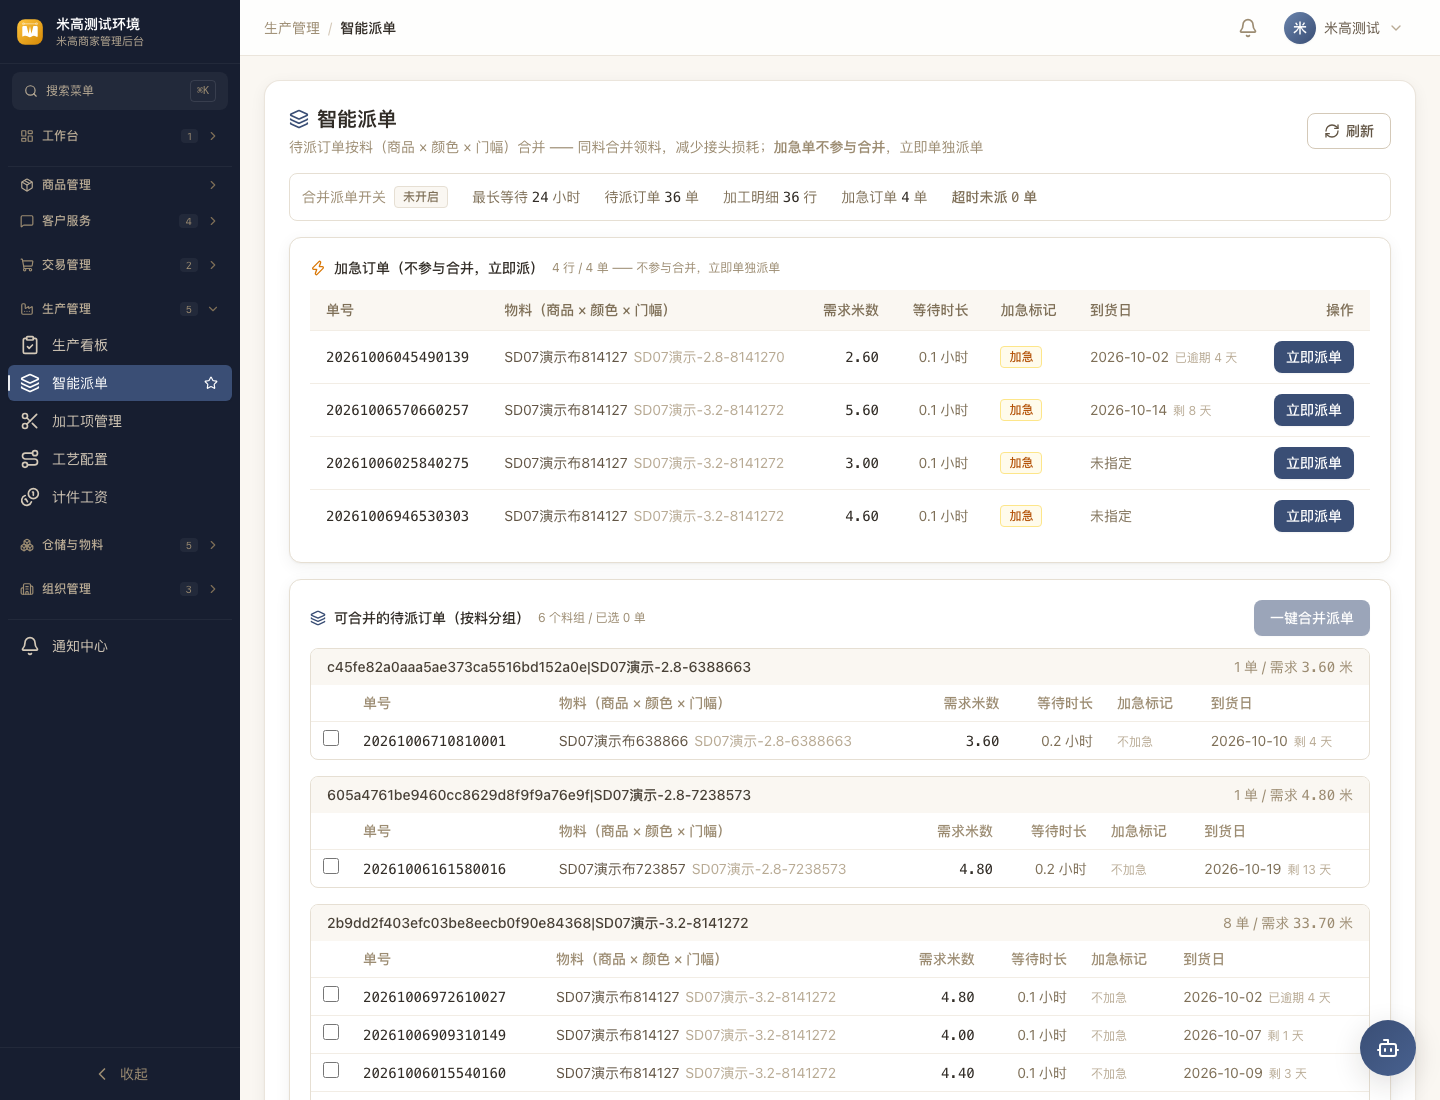
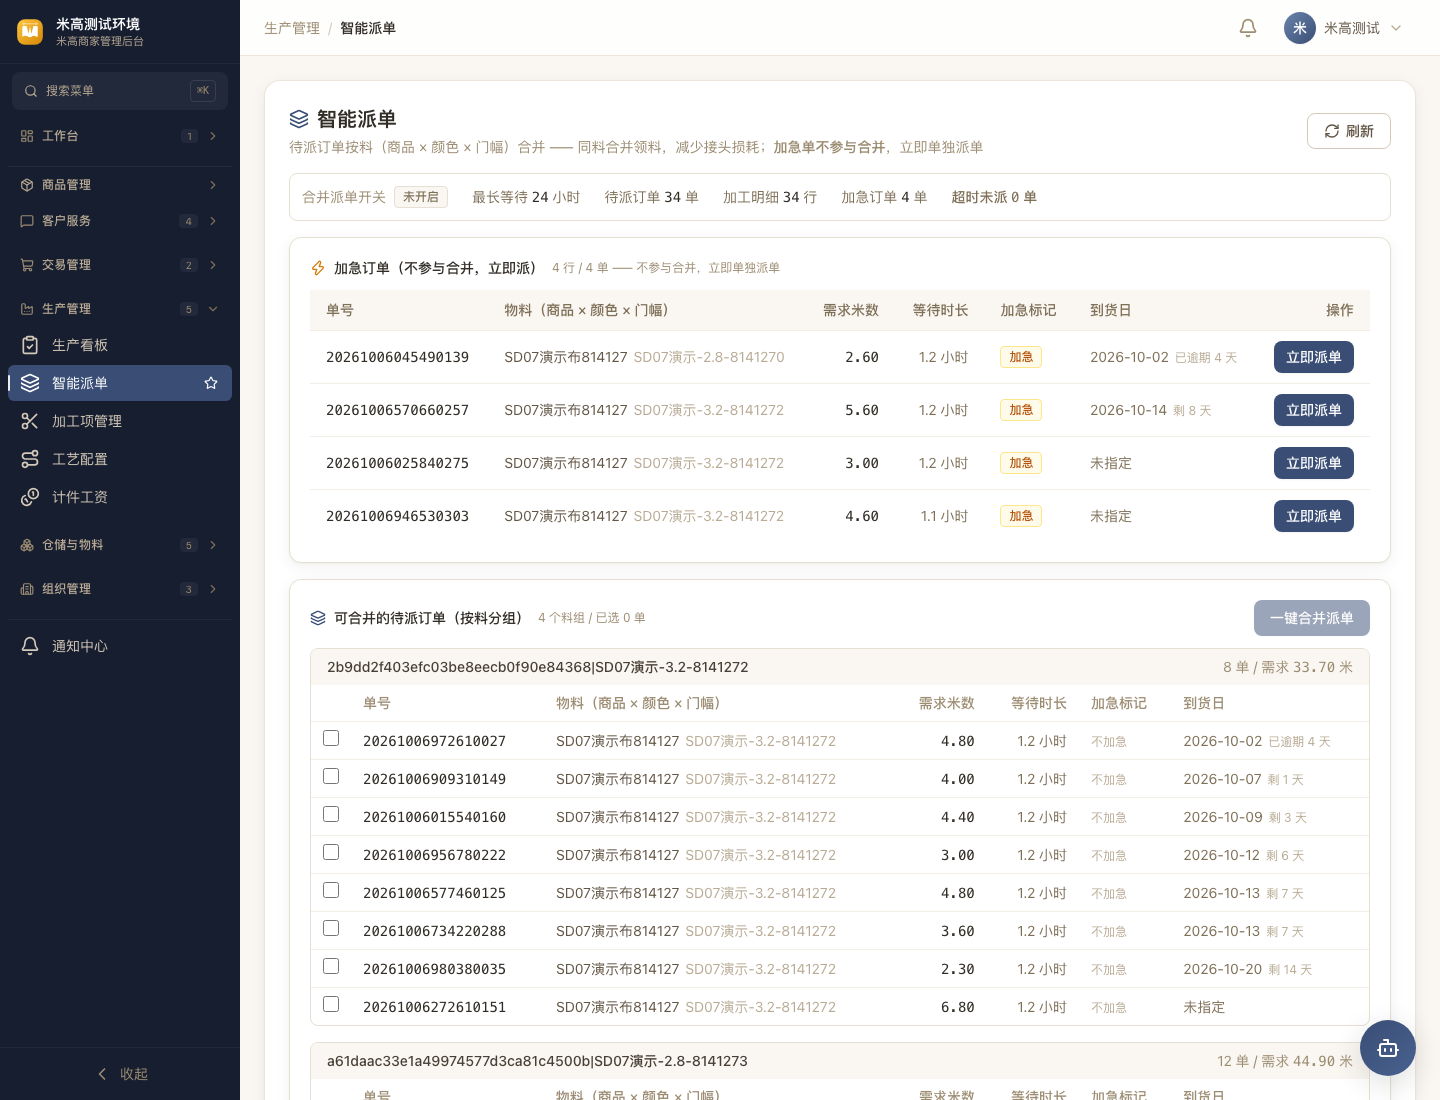
docs(acceptance): 演示数据 SQL 级复核 + 残留清理脚本（关联 #6408 #6420） (#6426)

Changed region(s): [[0.2188, 0.5873, 0.5938, 1.0], [0.625, 0.5873, 0.9375, 1.0]]

diff --git a/acceptance/2026-10-06-pooling-savings/out/REPORT.md b/acceptance/2026-10-06-pooling-savings/out/REPORT.md
@@ -286,3 +286,21 @@ products=0 / categories=0 / processing_position_operations=0`（`out/main.json::
 
 **残留（照实登记）**：早期调试产生 4 套探针商品/SKU/批次 + 16 张零散订单 + 18 个工人；
 `DELETE /api/admin/orders/{id}` 对**已付款**订单只成功 8/22，商品因有库存 0/8 ⇒ 需 RDS 可达后按前缀 SQL 清理。
+
+### 12.1 RDS 恢复后 SQL 级复核（2026-10-06 15:16 +08）
+
+用户授权后用 `aliyun rds ModifySecurityIps`（`--DBInstanceIPArrayName dev_local`）把本机当前出口 IP
+追加进白名单 ⇒ 公网端点恢复，**SQL 级核对 + 残留清理**得以执行（脚本：`harness/verify-demo.sql`）。
+
+| 读数（SQL 直查） | 值 |
+|---|---|
+| 正式演示订单（`SD07演示客814127%`） | **300** |
+| 已生成加工单 | **278** |
+| 加工单状态分布 | 已生成 150 / 加工中 40 / 加工完成 40 / 已发加工 32 / 已取消 16（**五种齐全**） |
+| 批次消耗行 | 252（省料 20 米 / ¥1434.52） |
+| 报工日志 | 256；计件合计 **¥222.57**（6 人 × 22 工序） |
+| **无加工单** | **22**，其中「帘种 = 纱帘」**22/22**、「纱帘 且 带特选项」**22/22** ⇒ 见 **#6420**（规则化缺陷，占 7.3%） |
+
+**残留清理（已执行）**：清掉两个调试批次（`638866`/`723857`）的 **22 单 + 13 加工单 + 8 套探针商品/SKU/批次**；
+正式批次 300 单 / 278 加工单完整保留。**探针工人 24 个刻意保留** —— 24 个都已有报工记录（计件链路参与者），
+删人会连坐报工日志。清理前后读数：残留调试单 22 → **0**。
